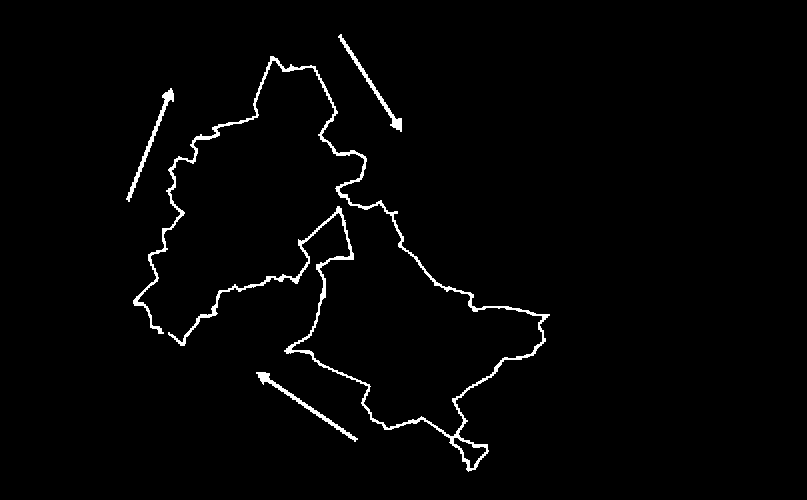
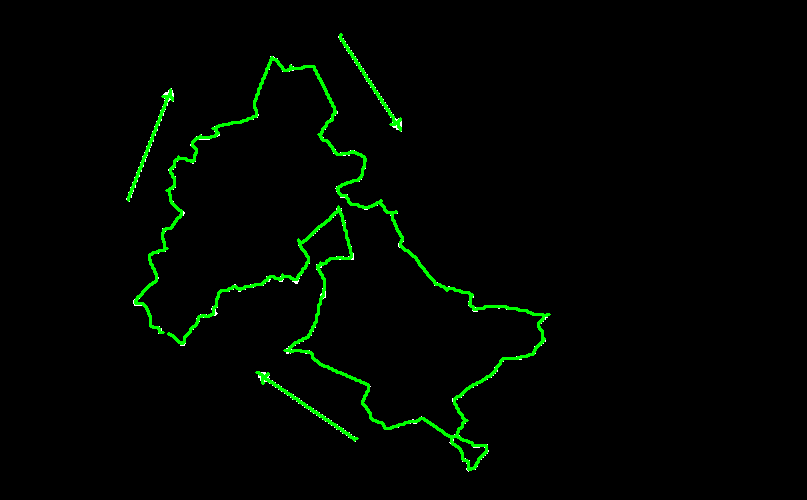
6

diff --git a/img_to_line.py b/img_to_line.py
@@ -4,6 +4,8 @@ import numpy as np
 import svgwrite
 import argparse
 from pathlib import Path
+from skimage.morphology import skeletonize
+from skimage.filters import threshold_otsu
 
 # Constants
 DEFAULT_MARGIN = 20
@@ -202,11 +204,24 @@ def detect_path(img: np.ndarray, hsv: np.ndarray,
     bgr_mask = cv2.inRange(img, bgr_lower, bgr_upper)
     mask = cv2.bitwise_or(hsv_mask, bgr_mask)
     
+    # Convert mask to binary
+    binary_mask = mask > 0
+    
+    # Skeletonize the mask
+    skeleton = skeletonize(binary_mask)
+    
+    # Find contours in the skeleton
+    contours, _ = cv2.findContours(skeleton.astype(np.uint8), 
+                                 cv2.RETR_EXTERNAL, 
+                                 cv2.CHAIN_APPROX_SIMPLE)
+    
     # Save debug image
     if debug:
-        cv2.imwrite('debug_mask_initial.png', mask)
+        debug_img = cv2.cvtColor(mask, cv2.COLOR_GRAY2BGR)
+        cv2.drawContours(debug_img, contours, -1, (0, 255, 0), 2)
+        cv2.imwrite('debug_mask_initial.png', debug_img)
     
-    return []
+    return contours
 
 def simplify_contours(contours: List[np.ndarray]) -> List[np.ndarray]:
     """
